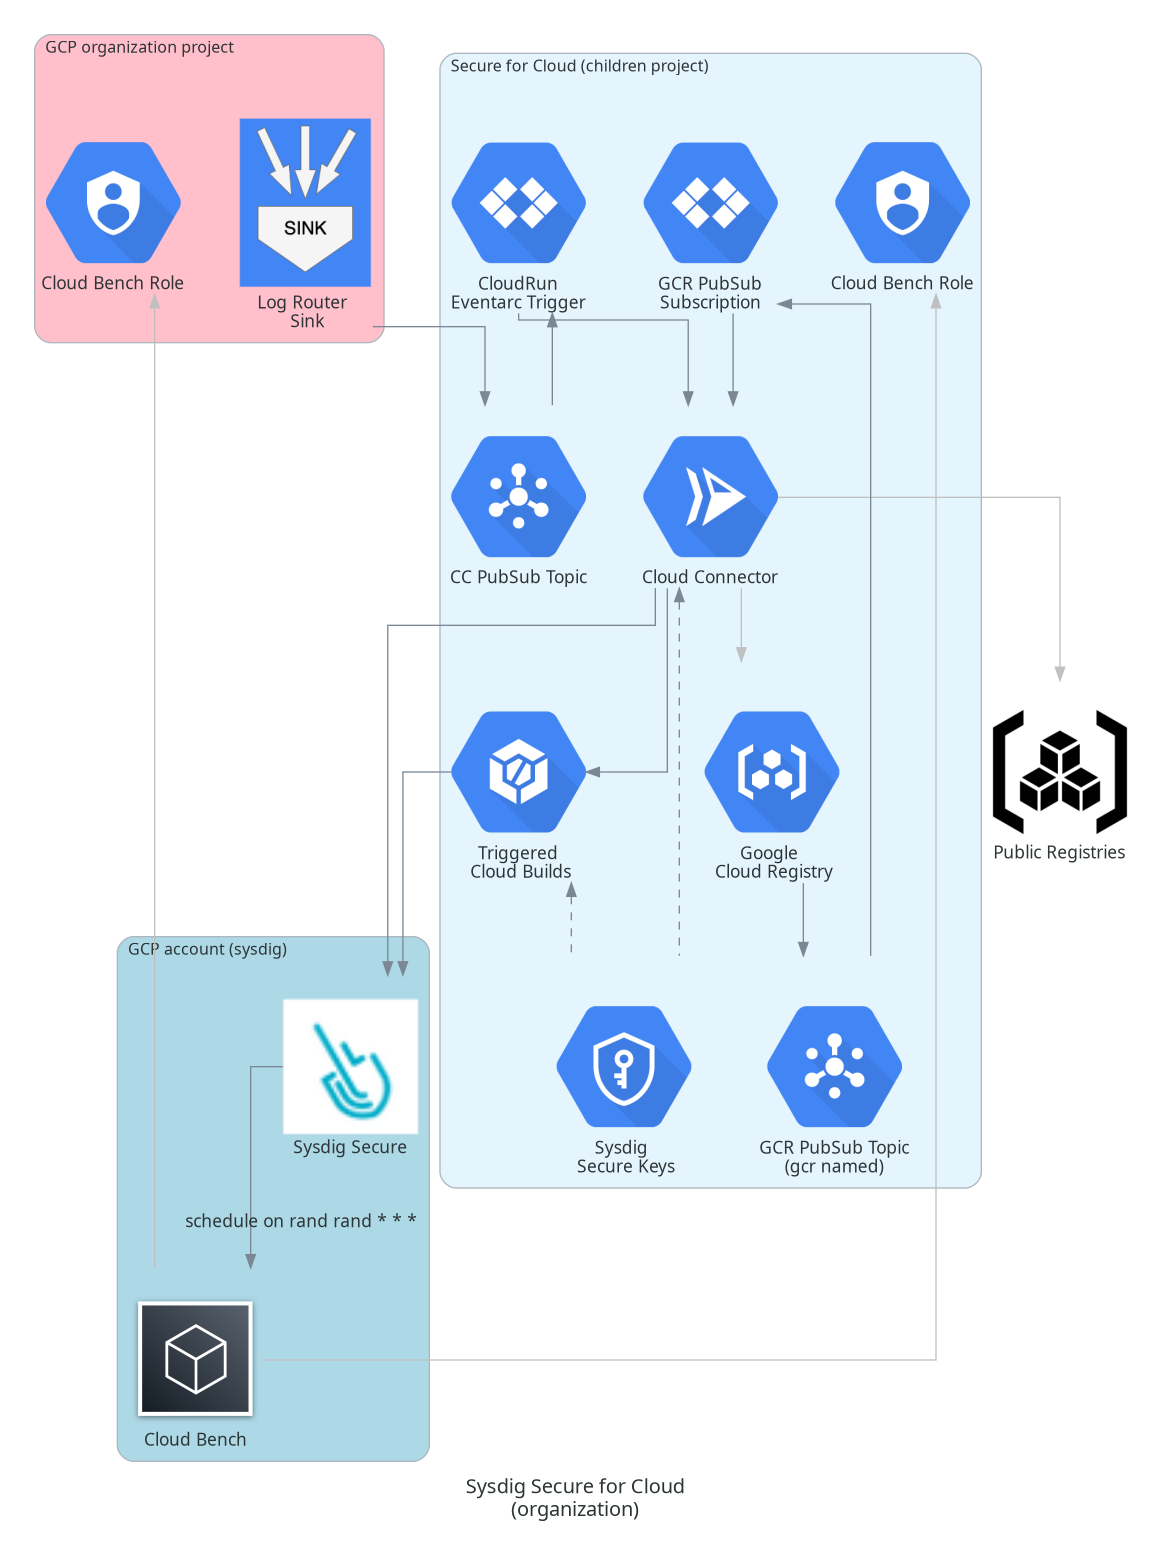
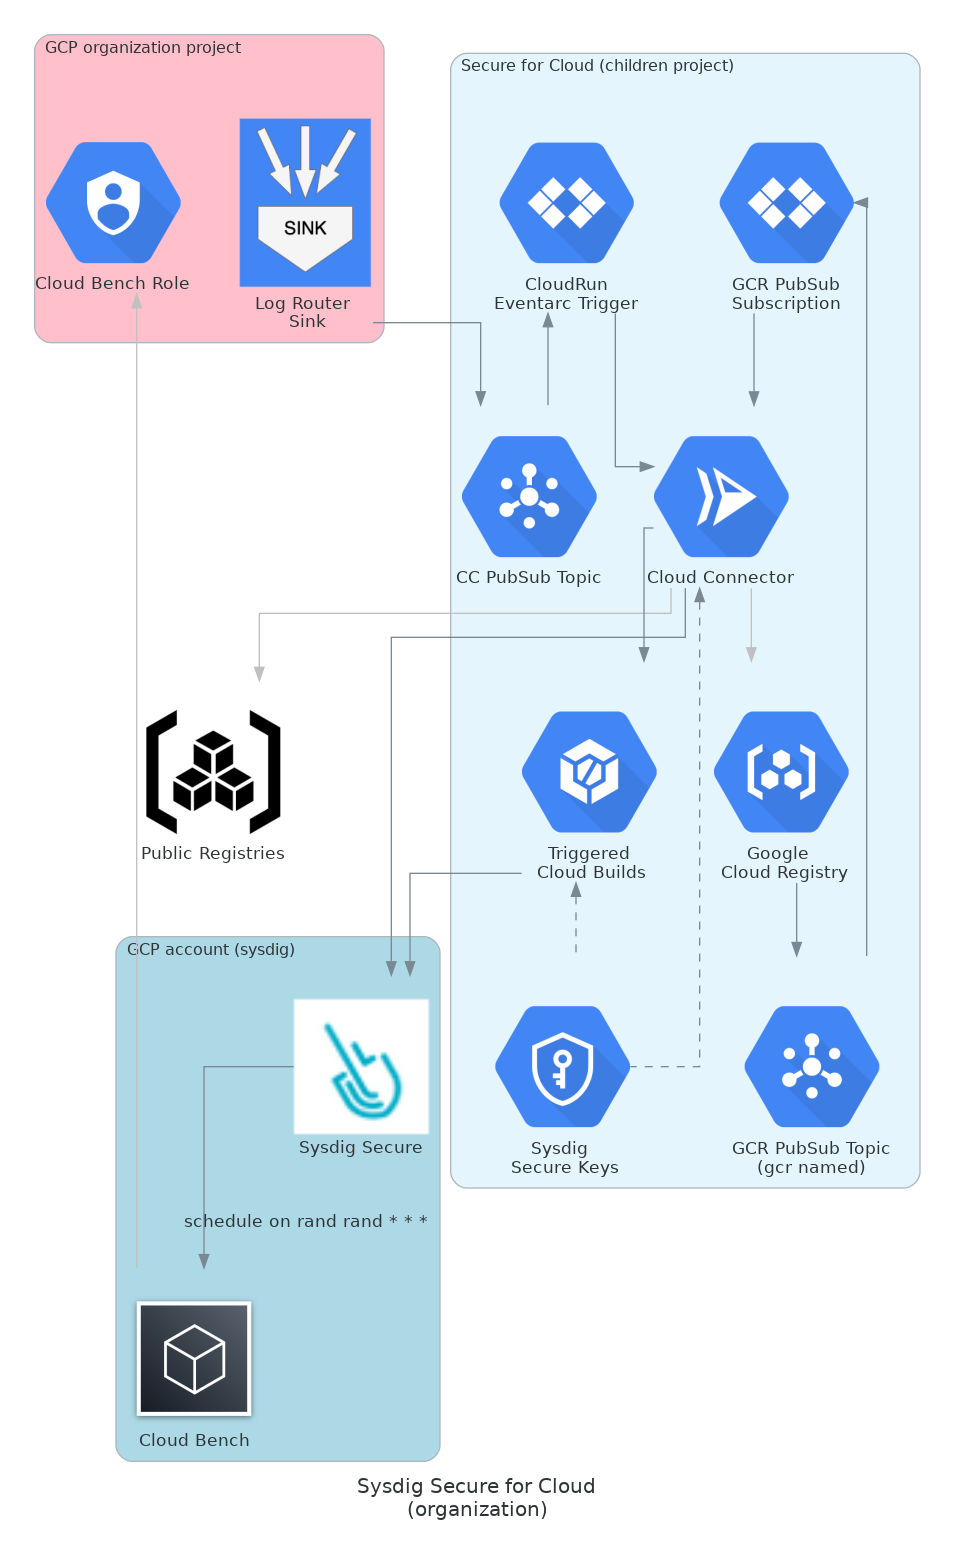
ci:lint

diff --git a/examples/org-workload-identity-provider/diagram-org.py b/examples/org-workload-identity-provider/diagram-org.py
@@ -34,7 +34,6 @@ with Diagram("Sysdig Secure for Cloud\n(organization)", graph_attr=diagram_attr,
         orgBenchRole = Iam("Cloud Bench Role")
 
     with Cluster("Secure for Cloud (children project)"):
-        ccBenchRole = Iam("Cloud Bench Role")
         ccPubSub = PubSub("CC PubSub Topic")
         ccEventarc = Code("CloudRun\nEventarc Trigger")
         ccCloudRun = Run("Cloud Connector")
@@ -63,5 +62,4 @@ with Diagram("Sysdig Secure for Cloud\n(organization)", graph_attr=diagram_attr,
     csCloudBuild >> sds
     ccCloudRun >> sds
 
-    ccBenchRole <<  Edge(color=color_non_important) <<  bench
     orgBenchRole <<  Edge(color=color_non_important) <<  bench

diff --git a/examples/org-workload-identity-provider/README.md b/examples/org-workload-identity-provider/README.md
@@ -113,8 +113,8 @@ module "secure-for-cloud_example_organization" {
 
 | Name | Version |
 |------|---------|
-| <a name="provider_google"></a> [google](#provider\_google) | 4.48.0 |
-| <a name="provider_sysdig"></a> [sysdig](#provider\_sysdig) | 0.5.46 |
+| <a name="provider_google"></a> [google](#provider\_google) | >= 4.21.0 |
+| <a name="provider_sysdig"></a> [sysdig](#provider\_sysdig) | >= 0.5.46 |
 
 ## Modules
 
